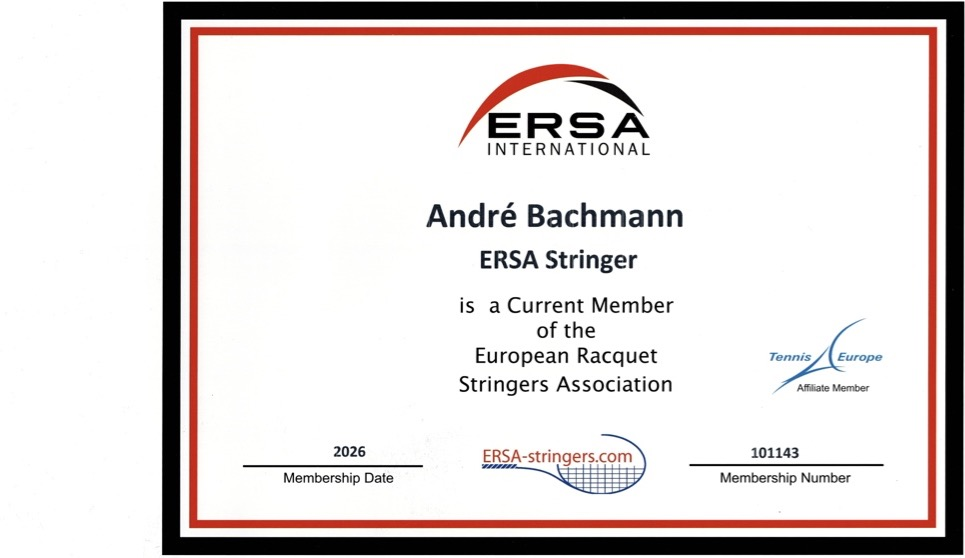
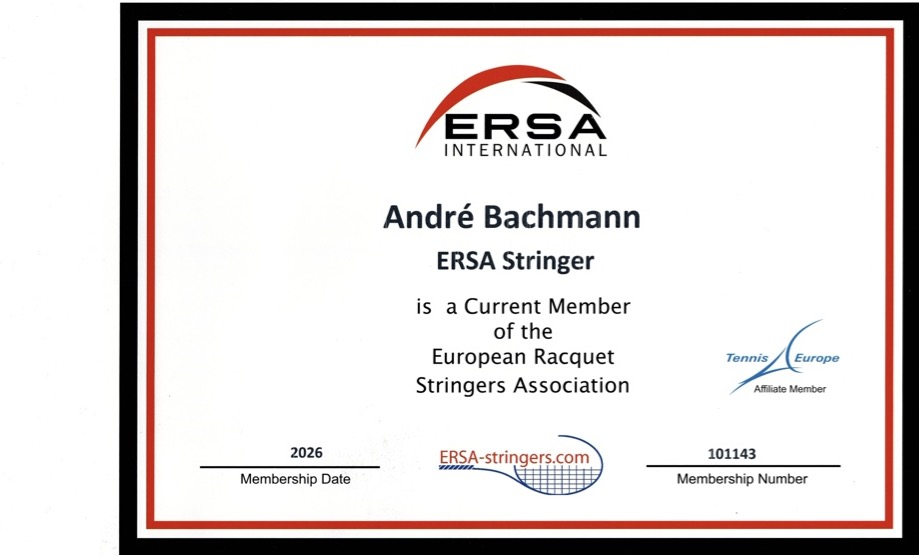
ERSA-Zertifikat: weißen Rand links entfernt

diff --git a/index.html b/index.html
@@ -69,7 +69,7 @@
 
         <!-- ERSA Zertifikat -->
         <div class="hero-ersa-cert" id="heroErsa">
-          <img src="images/ersa-zertifikat.jpg" alt="ERSA International Mitgliedszertifikat – André Bachmann ERSA Stringer 2026">
+          <img src="images/ersa-zertifikat.jpg?v=3" alt="ERSA International Mitgliedszertifikat – André Bachmann ERSA Stringer 2026">
         </div>
 
         <!-- CTAs -->
